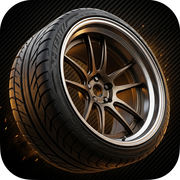
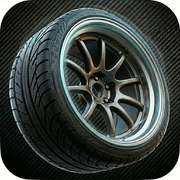
Add files via upload

diff --git a/sw.js b/sw.js
@@ -1,4 +1,4 @@
-const CACHE_NAME = 'tpsync-v1.06';
+const CACHE_NAME = 'tpsync-v1.14';
 const ASSETS = ['./', './index.html', './manifest.json', './icon-192.png', './apple-touch-icon.png', './icon-512.png'];
 
 self.addEventListener('install', (event) => {
